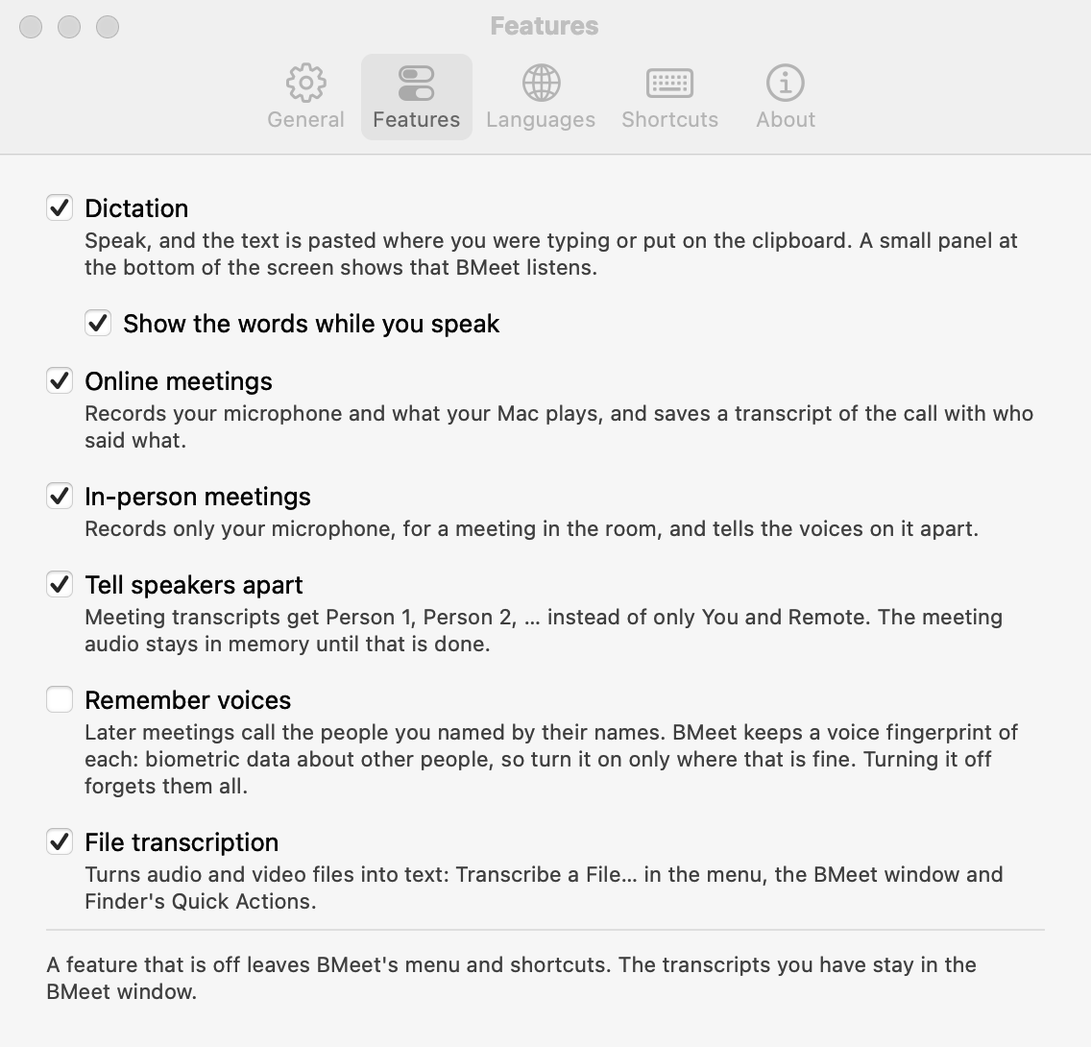
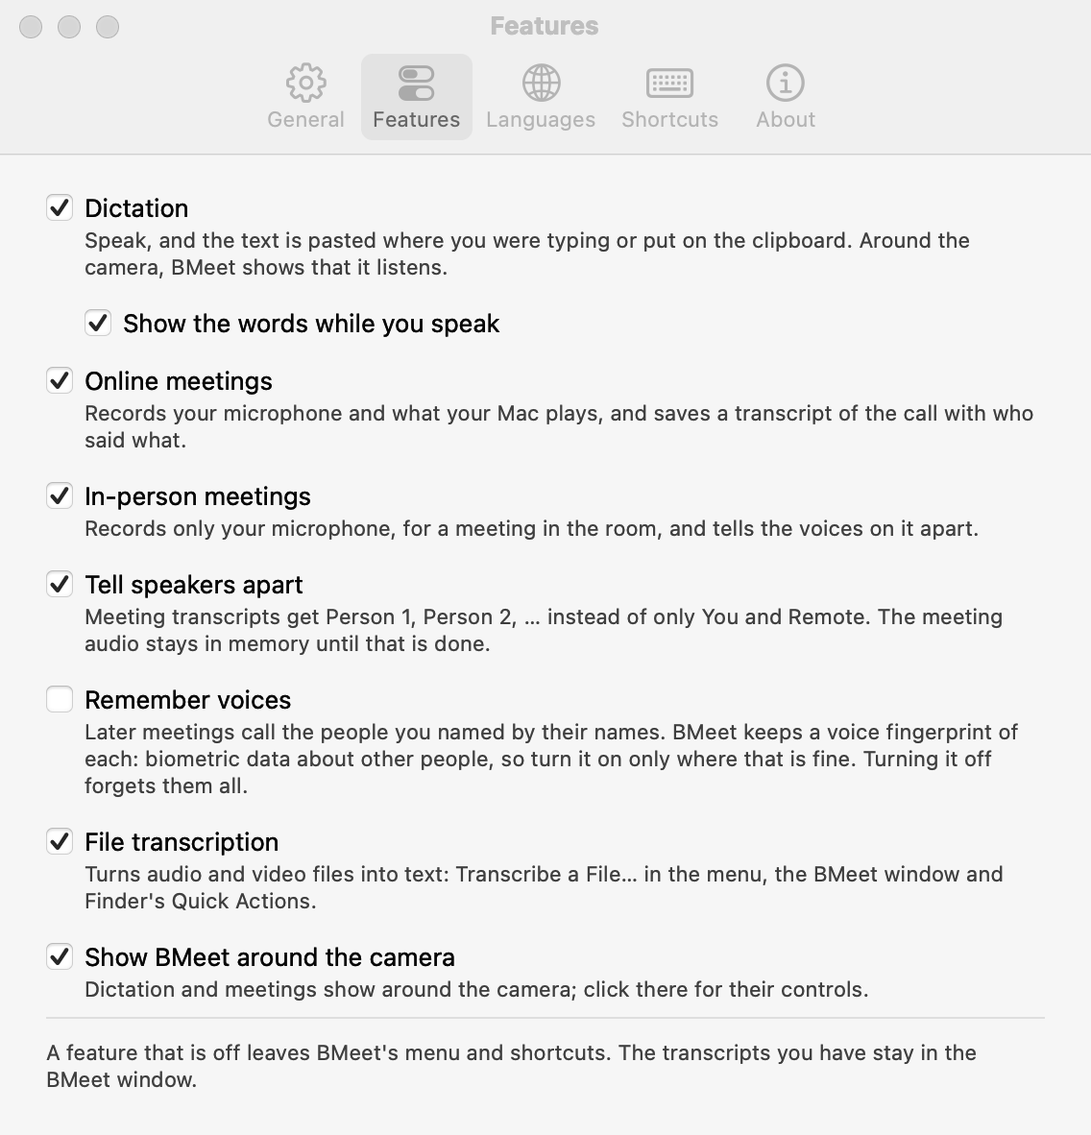
docs: describe the island around the camera, with off-screen pictures of every state
docs/macos.md: what it shows when, open and closed, focus and Esc, motion,
screens, the switch and the settings file, the check mode and its tests, and
what a check cannot show. README: the Mac line in What you get. The Features
page's picture with the new row; docs/macos-island-*.png are BMeet's own
off-screen drawing at this Mac's geometry, on a dark and a light menu bar.

diff --git a/docs/macos.md b/docs/macos.md
@@ -85,7 +85,35 @@ BMeet lives in the menu bar: a microphone. It turns red while you dictate or a m
 
 A feature turned off in Settings → Features is gone from the menu and its shortcuts are free for other apps; the menu shows only what is on (with everything off, its first line says so). A meeting that runs can always be stopped from the menu, even with meetings turned off.
 
-While you dictate, a small panel at the bottom of the screen shows the words as you say them. It is underlined while a word may still change, and it floats over full-screen apps too. It never takes the keyboard focus, so the text goes where you were typing. When you stop, BMeet puts the text on the clipboard, presses ⌘V, and gives you your clipboard back. `~/.config/bmeet/live-dictation` saying `off` hides the words (the panel then only shows *Listening…*).
+While you dictate, a small panel at the bottom of the screen shows the words as you say them. It is underlined while a word may still change, and it floats over full-screen apps too. It never takes the keyboard focus, so the text goes where you were typing. When you stop, BMeet puts the text on the clipboard, presses ⌘V, and gives you your clipboard back. `~/.config/bmeet/live-dictation` saying `off` hides the words (the panel then only shows *Listening…*). On a Mac whose screen has a camera housing, the island around the camera shows all of this instead, and the panel stays hidden ([below](#around-the-camera)).
+
+### Around the camera
+
+On a Mac whose screen has a camera housing at the top, BMeet shows what it is doing around it, the way an iPhone shows a call or a timer in its Dynamic Island. macOS has no API for this (Apple's Live Activities are not available on the Mac), so BMeet draws its own: a black shape joined to the housing, its corners rounded to the housing's height.
+
+![Every state of the island, closed and open, on a dark menu bar](macos-island-dark.png)
+
+*The island in each state, closed and open, at the geometry of a MacBook Pro M5 Pro (a housing 70 × 47.5 points in a screen of 1800 × 1182). These are BMeet's own drawing, made off screen by `BMeet --island-check all --picture DIR`, not screenshots. The same on a light menu bar: [macos-island-light.png](macos-island-light.png); in Russian: [macos-island-ru.png](macos-island-ru.png).*
+
+| What BMeet does | Closed: beside the housing | Open: a click on it |
+|---|---|---|
+| nothing | nothing: the housing stays as it is | – |
+| you dictate | a pulsing red dot and the language (*EN*). With *Show the words while you speak* on, it opens downward with the words as you say them, underlined while they may still change | *Listening…*, the language, the words, **Stop** and **Cancel** |
+| it transcribes your last words | a spinner and the language | *Transcribing…*, **Cancel** |
+| an online meeting records | a red dot and the meeting's time | what is recorded, **Pause** and **Stop** |
+| an in-person meeting records | a sign of two people and the time | the same |
+| a meeting is paused | a pause sign and the time | **Resume** and **Stop** |
+| the speaker pass works after a meeting | a spinner and *Speakers* | *Telling speakers apart…*, **Open** (the transcript as it is now) |
+| a transcript was saved | a check mark and *Saved*; it closes by itself 5 seconds later, unless it is open or under the mouse | its file name and **Open** |
+| something failed | a warning sign and *Failed*, until you have opened it and closed it again | what went wrong, **OK**, and **Open** when there is a transcript |
+
+- **One at a time:** a dictation first, then a meeting that records, then a failure, then the speaker pass, then *Saved*. A new meeting ends the last one's *Saved*.
+- **Saved and failed:** *Saved* comes when a speaker pass ends and its transcript has no line saying the voices were not told apart, and when a meeting stops with speakers off and bmeet-meeting says where it saved the transcript. *Failed* comes when that line is there (*Speakers not told apart*), and for a notification of BMeet's that says something failed while a meeting records, stops or has its speakers told apart, or within 30 seconds after one recorded: a meeting not started, a transcript not saved, a recorder that stopped unexpectedly. It shows the notification's title and text. While a file transcription that BMeet started (Finder's services) runs, no notification counts, as it may be the file's.
+- **Never the keyboard focus:** it never becomes the active window and never activates BMeet, so dictated text still goes where you were typing, and **Stop** pastes there. Clicks outside its shape go through to the menu bar and the apps below.
+- **Closing it:** a click outside it, a second click on it, or Esc. BMeet holds Esc only while the island is open (a shortcut of its own, so it needs no keyboard focus); while it is open, Esc closes it instead of reaching the app in front, and as soon as it closes, Esc is the apps' again.
+- **Motion:** it widens and opens on a spring and grows a little under the mouse, to show it can be clicked. With *Reduce motion* on (System Settings → Accessibility → Display), it fades instead.
+- **Where:** above the menu bar, over full-screen apps, on every Space, on the screen with the housing (the built-in display with its lid open), whichever screen has the menu bar. BMeet measures the housing from macOS (the screen's safe area at the top and the two areas beside the housing), so it follows any housing: a wide, low notch of an older MacBook as well. When a display is added or removed or the resolution changes, it measures again. With the lid closed, on a Mac without a housing, or with the island turned off (Settings → Features → *Show BMeet around the camera*, `~/.config/bmeet/island`), there is no island, and the dictation panel at the bottom of the screen shows the words as before.
+- **Not in it:** file transcriptions and updates. The menu bar icon stays as it is.
 
 ### How it looks
 
@@ -100,6 +128,7 @@ While you dictate, a small panel at the bottom of the screen shows the words as 
   - *Transcribe a File* offers the engine: *Automatic* (GigaAM v3 for Russian), *GigaAM v3*, *Whisper turbo*, *Whisper small* ([npu-transcribe.md](npu-transcribe.md)).
 - **The menu bar:** each item has an SF Symbol, and the shortcuts show the Mac way, from the same `hotkeys` file. The first line shows the state with a colored dot.
 - **The dictation panel:** a red dot pulses while BMeet listens, next to the language.
+- **The island:** black like the housing and joined to it, with SF Symbols and the system's red, green and yellow for the states ([Around the camera](#around-the-camera)).
 - **The Settings window:** a toolbar with five pages, as in Apple's own apps (below).
 
 ![… and in dark mode](macos-window-dark.png)
@@ -113,7 +142,7 @@ While you dictate, a small panel at the bottom of the screen shows the words as 
 | Page | What is on it |
 |---|---|
 | **General** | *Language*: BMeet's interface language, *System*, *English* or *Русский* (`interface-language`). *Start BMeet at login* (`start-at-login`). *Check for updates automatically* (`update-check`). *Free memory after*: right after use, 1, 5 (the default), 15, 30 or 60 minutes (`unload-after`): how long a speech model stays in memory after its last use; loading Whisper turbo again takes a few seconds, and a few minutes the first time after an update, while macOS compiles it. *Pasting*: whether macOS lets BMeet paste (Accessibility), with *Allow Pasting…* (shown while dictation is on). *Open in Finder* for the settings folder |
-| **Features** | Switches for **dictation** (`dictation`, with *Show the words while you speak*, `live-dictation`, under it while dictation is on), **online meetings** (`meetings`), **in-person meetings** (`in-person-meetings`), *Tell speakers apart* (`speakers`), *Remember voices* (`remember-voices`) and **file transcription** (`file-transcription`), each with a line on what it does |
+| **Features** | Switches for **dictation** (`dictation`, with *Show the words while you speak*, `live-dictation`, under it while dictation is on), **online meetings** (`meetings`), **in-person meetings** (`in-person-meetings`), *Tell speakers apart* (`speakers`), *Remember voices* (`remember-voices`), **file transcription** (`file-transcription`) and *Show BMeet around the camera* (`island`, [the island](#around-the-camera)), each with a line on what it does. On a Mac whose screen has no camera housing, the last one is greyed and its line says so. Dictation's line says where BMeet shows that it listens: around the camera, or in the panel at the bottom of the screen |
 | **Languages** | The dictation language, chosen among the ones that are on (`language`), and every language Whisper knows with a switch (`languages`), searchable by name or code, names in the interface language, the ones on first. At least one stays on; when the current one is turned off, the first one left takes its place. A note says that Russian goes to GigaAM v3 (or to Whisper, without it) |
 | **Shortcuts** | Each of the five shortcuts, changed by clicking it and pressing the new keys (⌃, ⌥ or ⌘ with a letter, a digit or Space, or an F key alone); ⌫ turns one off, Esc keeps it, *Restore Defaults* (`hotkeys`). Keys that another of BMeet's shortcuts has are refused; a shortcut another app holds says *Taken by another app*. The shortcuts of a feature that is off are greyed: *Off on the Features page* |
 | **About** | The version, whether a newer release is out with **Check Now** or **Update…** (as the menu's update items), *What's New* (the new release's notes, else this changelog), the models installed and their licences (Whisper and WhisperKit: MIT; GigaAM v3: MIT; Nemotron 3 Diarization: OpenMDW-1.1; TitaNet-small: CC-BY-4.0; BMeet: MIT), github.com/baakhoff/bmeet and *Open Log Folder* |
@@ -141,6 +170,7 @@ The meetings and files transcribed before stay in the BMeet window and in *Recen
 | `interface-language` | `system` (default), `en` or `ru` |
 | `unload-after` | minutes, 0–60 (default 5): how long a process that waits for work keeps a model after its last use; `0`: right after each use. BMeet.app ends its speech engine after that long without a dictation ([Memory](#memory)) |
 | `live-dictation` | `on` (default on a Mac) or `off`: the words while you speak |
+| `island` | `on` (default) / `off`: BMeet around the camera housing, on a Mac that has one ([Around the camera](#around-the-camera)); off, the dictation panel at the bottom of the screen shows the words |
 | `speakers` | `on` / `off`: tell meeting speakers apart (Person 1, Person 2, …) |
 | `remember-voices` | `on` / `off` (default): as on Linux; also set in the window's *Name speakers…* |
 | `start-at-login` | `on` / `off` |
@@ -152,7 +182,7 @@ The meetings and files transcribed before stay in the BMeet window and in *Recen
 ```
  ⌃⌥H / menu ──┐
  ⌃⌥M / menu ──┼─> BMeet.app (menu bar, Swift) ─┬─> npu-transcribe --dictate ──> bmeet-record raw (microphone)
- bmeet-ctl ───┘   agent.sock                   │       text events -> the panel; ⌘V at the end
+ bmeet-ctl ───┘   agent.sock                   │       text events -> the island or the panel; ⌘V at the end
                                                └─> bmeet-meeting start|stop (Python)
                                                      ├─ RAM disk on $XDG_RUNTIME_DIR/bmeet/meeting-audio
                                                      ├─ bmeet-record meeting DIR   (mic + Core Audio tap of the system audio)
@@ -173,7 +203,7 @@ The meetings and files transcribed before stay in the BMeet window and in *Recen
 | `$XDG_RUNTIME_DIR` (tmpfs) | macOS has no such variable: `macos/bmeetmac.py` points it at your user's temp folder, the same for every process. The meeting audio goes to a RAM disk that bmeet-meeting mounts there (hidden from Finder) and detaches when no recording is left: it never reaches the disk |
 | systemd user units | bmeet-meeting's "units": detached processes with pid files in `$XDG_RUNTIME_DIR/bmeet/units`, and what to run when each ends |
 | KDE shortcuts, the panel widget | BMeet.app's shortcuts (Carbon hot keys: no Input Monitoring permission) and its menu bar icon |
-| ydotool / wl-copy, KWin's input method | the clipboard, ⌘V (CGEvent; Accessibility), and the panel at the bottom of the screen |
+| ydotool / wl-copy, KWin's input method | the clipboard, ⌘V (CGEvent; Accessibility), and the island around the camera or the panel at the bottom of the screen |
 | Dolphin service menu | BMeet.app's Services (Finder → Quick Actions / Services) |
 | notify-send | BMeet.app's notifications (`bmeetmac.notify`) |
 | The app on the system PyQt6 | the same app on the venv's PyQt6, inside `BMeet.app/Contents/Helpers/BMeet Window.app`: `macos/window/launcher.c` runs Python inside that bundle, so macOS shows *BMeet* with its icon, not *Python* |
@@ -224,7 +254,8 @@ BMeet keeps a model loaded only while it may be needed soon. One setting says ho
 
 ## Differences from Linux
 
-- **No text into the field while you speak:** on Linux BMeet can be KWin's input method. On a Mac the words show in the floating panel and are pasted when you stop.
+- **No text into the field while you speak:** on Linux BMeet can be KWin's input method. On a Mac the words show in the island around the camera, or in the floating panel, and are pasted when you stop.
+- **The island around the camera** is the Mac's alone: Linux has the panel widget instead.
 - **No pyannote fallback** for telling voices apart. The Mac install always has Nemotron, and ONNX Runtime, which pyannote would need, crashes next to Core ML in one process.
 - **One Whisper model:** dictation uses Whisper turbo, like files and meetings; Linux's voxtype uses Whisper small. It is fast enough on the Neural Engine, and it is already loaded.
 - **The meeting audio is always recorded while a meeting runs** (in RAM): there is no voxtype that transcribes it itself. With `speakers` off it is deleted as soon as the live transcript is done, instead of after the speaker pass.
@@ -238,6 +269,7 @@ macos/.build/release/bmeet-whisper transcribe talk.f32 --words   # raw float32 1
 QT_QPA_PLATFORM=offscreen ~/.local/share/bmeet/venv/bin/python -I bmeet/app/tests/test_bmeet.py   # the app's tests
 ~/.local/share/bmeet/venv/bin/python -I macos/tests/test_macos.py                               # the Mac parts
 python3 -I macos/tests/test_settings.py                                                        # BMeet.app's Settings window
+python3 -I macos/tests/test_island.py                                                          # the island around the camera
 python3 -I macos/tools/check-strings.py                                                        # BMeet.app's Russian texts
 ```
 
@@ -256,6 +288,13 @@ python3 -I macos/tools/check-strings.py                                         
   - `--settings-act`: the Settings window's controls worked as a click or a key press would, and the files they wrote;
   - `--control-check`: the control socket with a stand-in for BMeet's Python, so nothing records: the `settings` op, and `dictate` and `meeting` refusing what is off;
   - `--hotkey-check`: shortcuts registered with macOS again as the switches change, with ⌃⌥⇧⌘ and F13–F20 only, which nobody uses.
+- `macos/tests/test_island.py` drives `--island-check`, and the checks above with a housing given:
+  - Every check takes `--screen W,H --housing X,W,H` (points, X from the screen's left edge): the screen and camera housing its island has. Without them a check has no housing, never this Mac's; `--screen real` measures this Mac's screens.
+  - `--island-check STATE|all [--open] [--act ACT...]`: the island laid out off screen, one JSON line each: its frame, its texts, its controls, and whether it is right: centred on the housing, at least as wide and as tall, on the screen, no text cut short, outside its shape or under the camera, every text translated. `all` is every state, closed and open. The acts are what the mouse and Esc do: `click` (at a point on the island), `outside` (a click outside its shape, which must go through), `escape`, `hover`, `leave`, `button:pause` and the other controls, which print what they asked BMeet to do.
+  - `--island-check status --status FILE...`: what BMeet makes of `bmeet-ctl status` answers in turn, with `"notify"` (the notifications that came after one) and `"written"` (the transcript a stop printed), and the acts after the last.
+  - `--picture DIR` with `--appearance light|dark` draws each state into PNGs at twice the size, on a menu bar of that look, and with `all` a sheet of them (`docs/macos-island-*.png` are these).
+  - The tests: this Mac's housing (70 × 47.5 points in 1800 × 1182) and an older notch (185 × 32 in 1512 × 982); no island without a housing or with the switch off, and the dictation panel instead (through `--control-check` and a dictation with the stand-in engine); the Features page's row; the clicks, Esc and the controls; the states BMeet derives from the status.
+  - Not tested by a check, because nothing is shown: how the island looks and moves on the real screen, whether it lines up with the real housing to the pixel, whether clicks reach it above the menu bar, full-screen apps and Spaces, and *Saved* closing by itself (its timer runs only on the screen).
 - The native parts build with the Command Line Tools alone (`swift build`). WhisperKit is pinned in `macos/Package.resolved`.
 
 ## Troubleshooting

diff --git a/macos/CHANGELOG.md b/macos/CHANGELOG.md
@@ -29,9 +29,18 @@ code both share are in both ([docs/releasing.md](../docs/releasing.md)). The for
 - **The window follows the features you turn off** (`~/.config/bmeet/dictation`, `meetings`, `in-person-meetings`, `file-transcription`) while it is open: their buttons, menu items and shortcuts (⌘3, ⌘O) go; the Meetings and Transcribed Files pages keep their lists. `bmeet-ctl dictate`, `lang` and `meeting start` then refuse, with status 3.
 - **The window and the meeting notifications in Russian,** after `~/.config/bmeet/interface-language`: `system` (the default: the first of the Mac's preferred languages that is English or Russian), `en` or `ru`. After a change, the open window offers **Restart**.
 - **`bmeet-ctl settings [PAGE]`** opens BMeet's Settings window on a page (`general`, `features`, `languages`, `shortcuts`, `about`); the window's *Settings…* (⌘,) and *About BMeet* use it. A BMeet.app that does not answer gets the folder `~/.config/bmeet`, as *Settings…* opened before.
+- **BMeet around the camera:** on a Mac whose screen has a camera housing, BMeet shows what it is doing around it, the way an iPhone's Dynamic Island shows a call. macOS has no API for this, so BMeet draws its own black shape joined to the housing, above the menu bar, over full-screen apps and on every Space ([docs/macos.md](../docs/macos.md#around-the-camera)).
+  - **Closed,** beside the housing: a pulsing red dot and the language while you dictate, a spinner while it transcribes, a red dot and the time of a meeting (a pause sign while it is paused, two people for an in-person one), a spinner and *Speakers* during the speaker pass, a check mark and *Saved* for 5 seconds, a warning sign and *Failed* until you have looked at it. Idle, nothing shows.
+  - **The words while you speak** open it downward, underlined while they may change. Where the island shows, it takes the place of the dictation panel at the bottom of the screen; without a housing, with the lid closed or with the island off, the panel shows them as before.
+  - **Open,** with a click: the state in full, with **Pause** or **Resume** and **Stop** for a meeting, **Stop** and **Cancel** for a dictation, **Open** for the transcript, **OK** for a failure. A click outside, a second click or Esc closes it. It never takes the keyboard focus or activates BMeet, and BMeet holds Esc only while it is open.
+  - *Failed* is a speaker pass that did not tell the voices apart, or a notification of BMeet's that something failed during or right after a meeting (not started, not saved, the recorder stopped).
+  - It widens on a spring and grows a little under the mouse; with *Reduce motion* on, it fades.
+  - It follows the housing macOS reports, so an older, wider notch gets its own island, and BMeet measures again when the screens change.
+  - **Settings → Features → *Show BMeet around the camera*** (`~/.config/bmeet/island`, `on` by default), greyed on a Mac without a housing.
 
 ### Changed
 - BMeet.app follows the files in `~/.config/bmeet` while it runs (within 2 s), whoever wrote them: the shortcuts in `hotkeys` and a feature's switch no longer need a restart.
+- The control socket's `notify` op reads the `ok` that `bmeetmac.notify` sends: a notification that something failed, during or right after a meeting, also shows in the island. BMeet.app reads what `bmeet-meeting stop` prints (the transcript's path) for the island's *Saved*.
 - The speech engine of dictation ends after `unload-after` minutes without a dictation (5 by default; it was 15), or right after each one with `0`, and when dictation is turned off.
 - **Languages in *Transcribe a File*:** *Detect automatically* and the languages that are on; English is no longer always offered.
 - **`bmeet-ctl status`** adds `features` and `interface_language`. Its `live_dictation` is `on` without the file, as BMeet.app reads it (it said `off`), and its `language` is always one of `languages` (the first, when the file names none of them).
@@ -65,6 +74,7 @@ code both share are in both ([docs/releasing.md](../docs/releasing.md)). The for
   - bmeet-ctl's tests fail instead of running `open` (which would open BMeet.app) or `osascript`.
 - `macos/tests/test_settings.py`, through BMeet's own check modes, which show nothing and use a test's own folders: every Settings page in English and Russian fits a 13-inch screen and cuts no text; each feature off removes exactly its menu items and shortcuts; the controls write the files as HotKeys.swift and the rest read them back; shortcuts are registered again with macOS as the switches change (⌃⌥⇧⌘ with F13–F20 only); the control socket refuses what is off; the translations in the bundle.
 - `macos/tools/check-strings.py` (CI's lint job): every text of BMeet.app has its Russian line, and no line is left over.
+- `macos/tests/test_island.py`, through BMeet's new `--island-check` and a screen and housing given to any check (`--screen`, `--housing`), all off screen: the island centred on this Mac's housing and an older notch, at least as wide and as tall; none without a housing or with the switch off, and the dictation panel instead (a real dictation with the stand-in engine); every state, closed and open, in English and Russian with no text cut short, outside the island or under the camera; the Features page's row; clicks, Esc, hover and the controls; the states BMeet derives from `bmeet-ctl status`, its notifications and a stop's output; pictures of every state (`docs/macos-island-*.png`).
 - **`bmeet/app/tests/test_bmeet.py`:** every text of the window and of bmeet-meeting's notifications has its Russian line (a test reads the sources); the window in Russian; a notification reaching a stand-in BMeet.app in Russian; the engine choice; the feature switches while the window is open, the Mac menus; `bmeet-ctl settings` with a stand-in control socket in a runtime folder of the test's own.
 
 ## [0.9.1] - 2026-10-27

diff --git a/README.md b/README.md
@@ -41,6 +41,7 @@ window, in English or Russian: see [docs/macos.md](docs/macos.md).
   - In English or Russian (see [Configure](#configure)).
 - **Panel widget:** a microphone icon that shows what is happening (ready, listening, transcribing, recording). Click it for dictation, meeting and language controls and your recent transcripts.
 - **Several languages:** any language Whisper knows. **Meta+Shift+H** cycles through the ones you pick.
+- **On a Mac:** a menu bar app with ⌃⌥ shortcuts and a Settings window. On a MacBook whose screen has a camera housing, BMeet also shows what it is doing around the camera, the way an iPhone's Dynamic Island shows a call: listening with your words, a meeting and its time, the speaker pass, the transcript saved. A click opens it, with **Pause**, **Stop**, **Cancel** and **Open** ([docs/macos.md](docs/macos.md#around-the-camera)).
 
 It builds on [voxtype](https://github.com/peteonrails/voxtype) (dictation and meetings) and
 [OpenVINO GenAI](https://github.com/openvinotoolkit/openvino.genai) (Whisper on the NPU).
@@ -173,7 +174,7 @@ the meeting being recorded, in RAM, and nowhere else. Without the extension, not
 - **Remembered voices:** off until you tick *Recognise them by voice in later meetings* in the app's *Name speakers…* dialog (stored in `~/.config/bmeet/remember-voices`). With them on, BMeet also learns your own voice from your microphone in online meetings, for in-person meetings.
 - **voxtype:** `~/.config/voxtype/config.toml`. Change single values with `voxtype config set KEY VALUE`, then run `systemctl --user restart voxtype`. The defaults and the reasons for them are in [docs/voxtype.md](docs/voxtype.md).
 - **Shortcuts:** System Settings → Keyboard → Shortcuts → *Voxtype: …*.
-- **On a Mac:** BMeet's Settings window (*Settings… ⌘,* in its menu) writes these files and a few more: it turns dictation, meetings, in-person meetings and file transcription off (each then leaves the menu and frees its shortcuts), turns dictation languages on and off, changes the shortcuts, sets how long a model stays in memory and the interface language (English or Russian). See [docs/macos.md](docs/macos.md#settings).
+- **On a Mac:** BMeet's Settings window (*Settings… ⌘,* in its menu) writes these files and a few more: it turns dictation, meetings, in-person meetings and file transcription off (each then leaves the menu and frees its shortcuts), turns dictation languages on and off, changes the shortcuts, sets how long a model stays in memory and the interface language (English or Russian), and turns the island around the camera on and off (`island`). See [docs/macos.md](docs/macos.md#settings).
 
 ## Privacy
 
